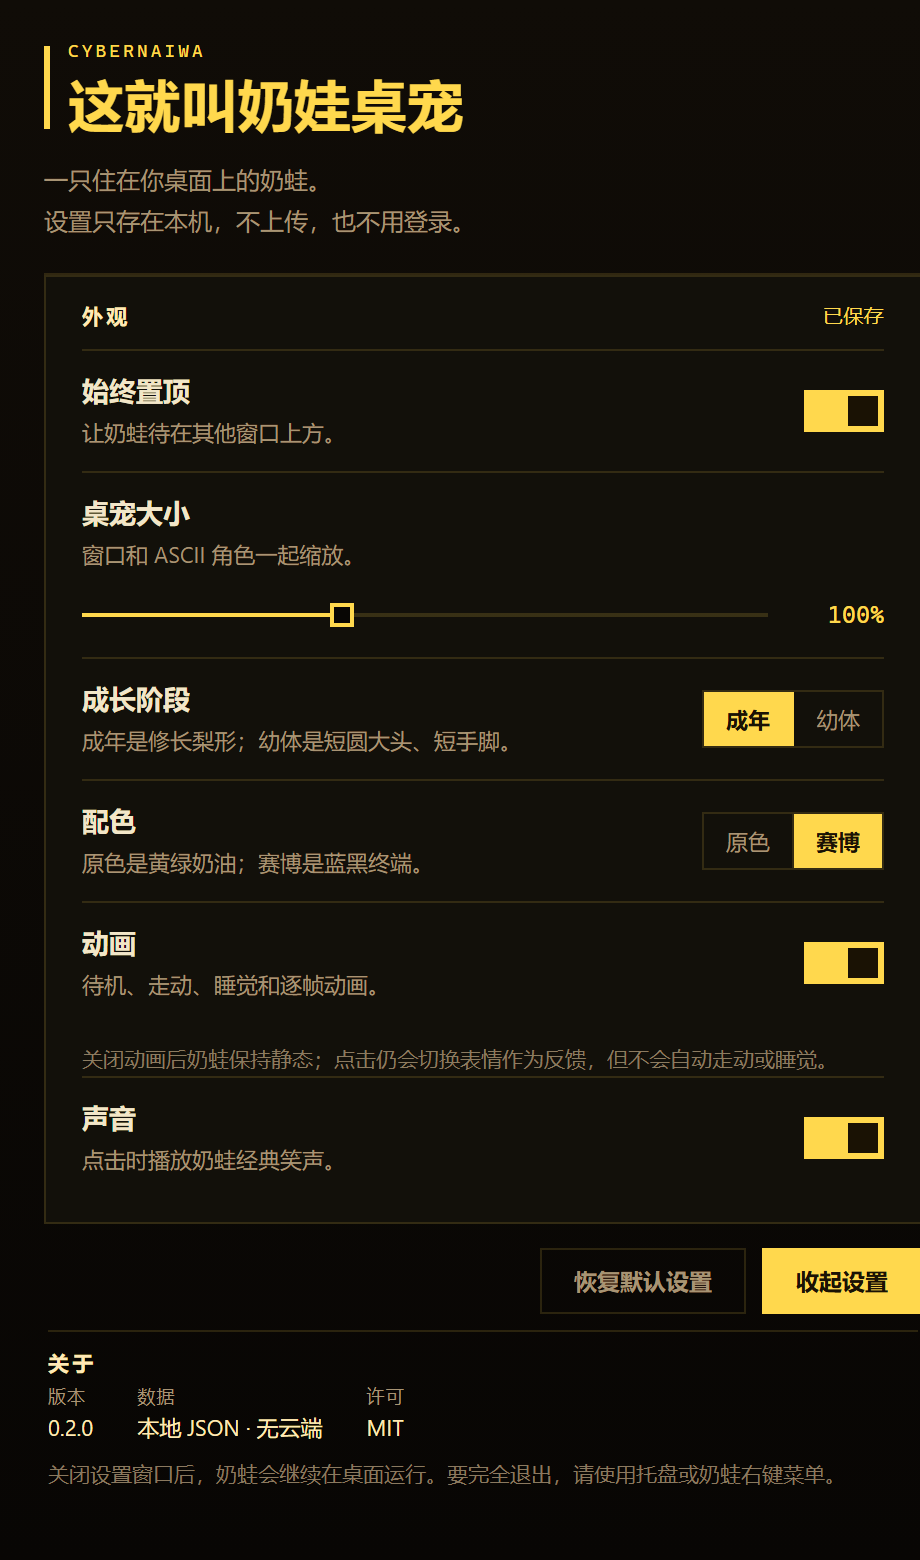
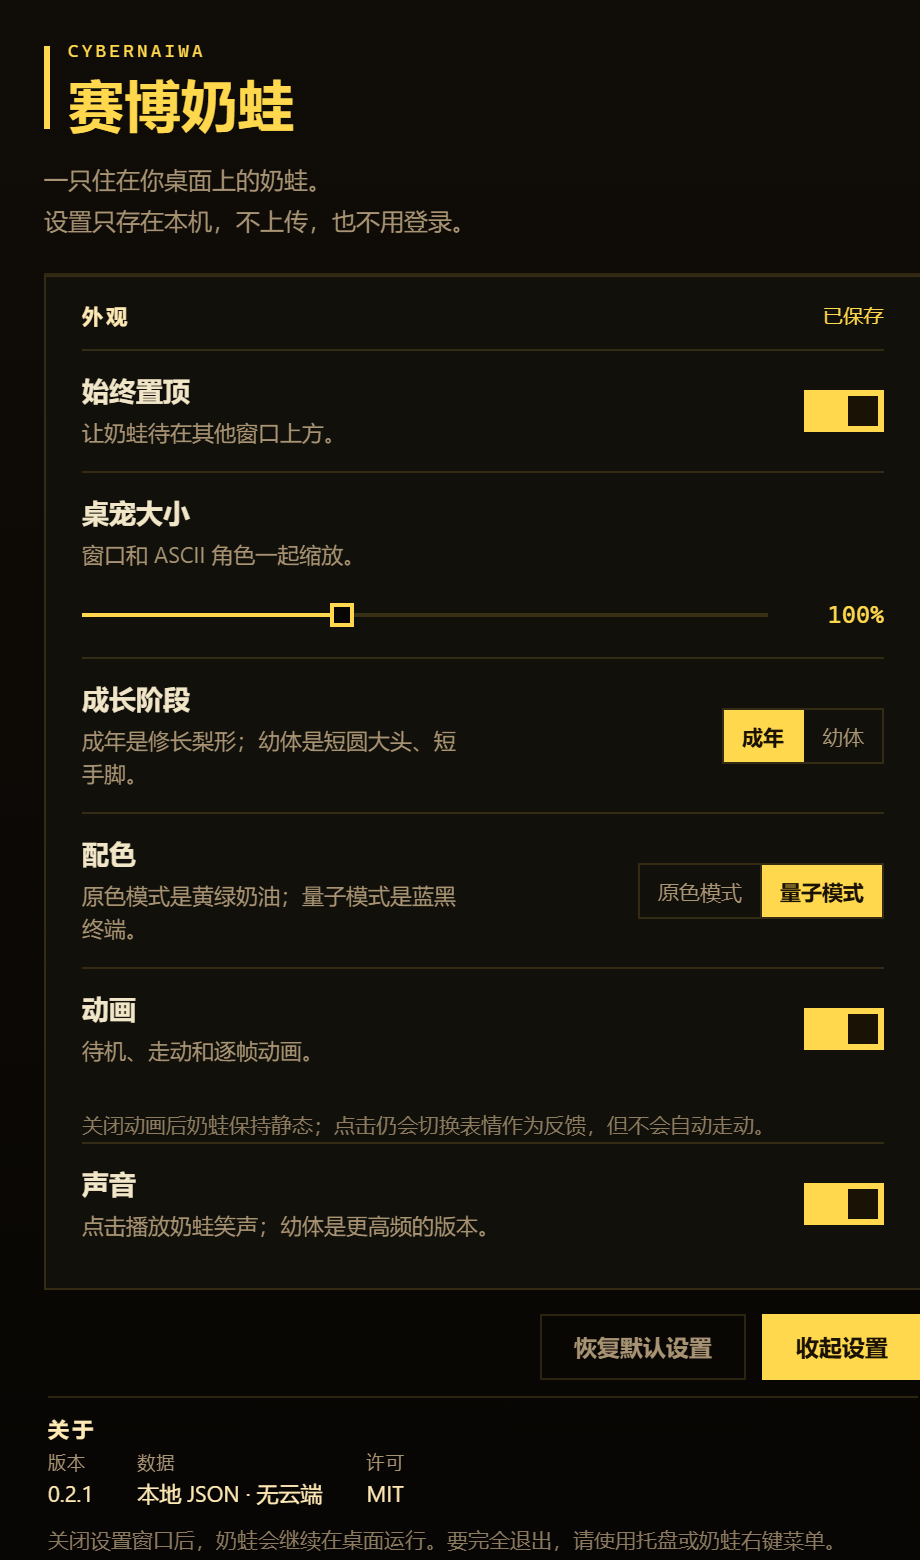
bump version to 0.2.1 and refresh settings screenshot

diff --git a/src/components/Settings.tsx b/src/components/Settings.tsx
@@ -12,7 +12,7 @@ import "../styles/settings.css";
 
 export default function Settings() {
   const { settings, loaded, status, error, update, reset } = useSettings();
-  const [version, setVersion] = useState("0.2.0");
+  const [version, setVersion] = useState("0.2.1");
 
   const strings = UI_STRINGS[settings.language];
   const statusText = {

diff --git a/DEVELOPMENT.md b/DEVELOPMENT.md
@@ -204,3 +204,4 @@ cargo check --manifest-path src-tauri/Cargo.toml
 - 2026-11-16 add the Naiwa classic laugh audio from `Nailong-Studio/NaiWa-Wallpaper`, use researched Naiwa meme sound words for click bubbles, add a sound switch, and make the app UI Chinese-only (English stays in README.en.md).
 - 2026-11-16 fix the settings scroll container (`height:100%` + `overflow-y:auto`) so the bottom note is reachable; use the user-provided tall adult front reference for adult idle/walk.
 - 2026-11-16 rename the app to 赛博奶蛙, rename the palettes to 原色模式/量子模式, remove the sleep state entirely, play the laugh at 1.0× for adults and 1.35× without pitch preservation for babies, hide the bubble while sound is on and show meme lines as subtitles when muted, and fit the baby hands-on-hips pose by both width and height so the elbows stay complete.
+- 2026-11-16 bump to 0.2.1 and replace `docs/settings.png` with the 赛博奶蛙 settings screenshot (原色模式/量子模式, no sleep copy, version 0.2.1).
